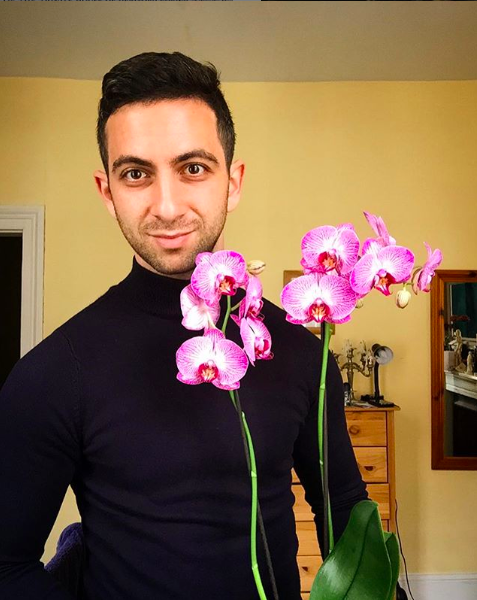
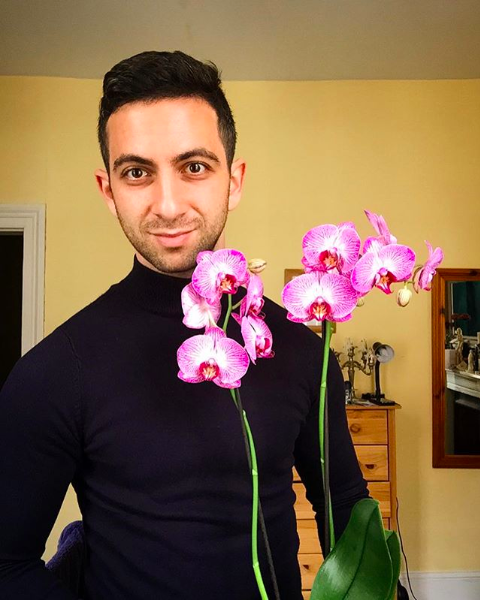
fixed photo names

diff --git a/index.html b/index.html
@@ -204,10 +204,10 @@
       <!-- Portfolio Item -->
       <figure style="position: absolute; left: 0px; top: 0px; transform: translate3d(0px, 0px, 0px) scale3d(1, 1, 1); width: 337px; opacity: 1;" class="portfolio-item one-four   appleIOS isotope-item effect-oscar">
         <div class="portfolio_img"> 
-		<img src="img/James 1.png"  alt="Portfolio 1"> </div> 
+		<img src="img/P1 photo 1.png"  alt="Portfolio 1"> </div> 
 			<figcaption>		
 				<div>
-				  <a href="img/James 1.png" class="fancybox"> 
+				  <a href="img/P1 photo 1.png" class="fancybox"> 
 					<h2>Donosti</h2>
 							<p>This is definetly one of our favourite kissing photos.</p>
           </a>
@@ -219,10 +219,10 @@
       
       <!-- Portfolio Item-->
       <figure style="position: absolute; left: 0px; top: 0px; transform: translate3d(337px, 0px, 0px) scale3d(1, 1, 1); width: 337px; opacity: 1;" class="portfolio-item one-four  design isotope-item effect-oscar">
-        <div class="portfolio_img"> <img src="img/James 2.png" alt="Portfolio 1"> </div>
+        <div class="portfolio_img"> <img src="img/P1 photo 2.png" alt="Portfolio 1"> </div>
         	<figcaption>		
 				<div>
-				  <a href="img/James 2.png" class="fancybox"> 
+				  <a href="img/P1 photo 2.png" class="fancybox"> 
 					<h2>Manhattan</h2>
 							<p>At Brooklyn bridge, with the skyscrapers at the back.</p>
           </a>
@@ -234,10 +234,10 @@
       
       <!-- Portfolio Item -->
       <figure style="position: absolute; left: 0px; top: 0px; transform: translate3d(674px, 0px, 0px) scale3d(1, 1, 1); width: 337px; opacity: 1;" class="portfolio-item one-four  design  isotope-item effect-oscar">
-        <div class="portfolio_img"> <img src="img/James 3.png" alt="Portfolio 1"> </div>
+        <div class="portfolio_img"> <img src="img/P1 photo 3.png" alt="Portfolio 1"> </div>
        <figcaption>		
 				<div>
-				  <a href="img/James 3.png" class="fancybox"> 
+				  <a href="img/P1 photo 3.png" class="fancybox"> 
 					<h2>Barranquilla</h2>
 							<p>This really was one of the best carnavals we ever had.</p>
           </a>
@@ -249,10 +249,10 @@
       
       <!-- Portfolio Item-->
       <figure style="position: absolute; left: 0px; top: 0px; transform: translate3d(1011px, 0px, 0px) scale3d(1, 1, 1); width: 337px; opacity: 1;" class="portfolio-item one-four  android  prototype web isotope-item effect-oscar">
-        <div class="portfolio_img"> <img src="img/James 4.png" alt="Portfolio 1"> </div>
+        <div class="portfolio_img"> <img src="img/P1 photo 4.png" alt="Portfolio 1"> </div>
          <figcaption>		
 				<div>
-				  <a href="img/James 4.png" class="fancybox"> 
+				  <a href="img/P1 photo 4.png" class="fancybox"> 
 					<h2>Beach</h2>
 							<p>We played volleyball at one of our first dates.</p>
           </a>
@@ -264,10 +264,10 @@
       
       <!-- Portfolio Item -->
       <figure style="position: absolute; left: 0px; top: 0px; transform: translate3d(0px, 240px, 0px) scale3d(1, 1, 1); width: 337px; opacity: 1;" class="portfolio-item one-four  design isotope-item effect-oscar">
-        <div class="portfolio_img"> <img src="img/Xabi 1.png" alt="Portfolio 1"> </div>
+        <div class="portfolio_img"> <img src="img/P2 photo 1.png" alt="Portfolio 1"> </div>
        <figcaption>		
 				<div>
-				  <a href="img/Xabi 1.png" class="fancybox"> 
+				  <a href="img/P2 photo 1.png" class="fancybox"> 
 					<h2>Paris</h2>
 							<p>Matching the colours of Mickey Mouse at Disneyland Paris.</p>
           </a>
@@ -279,10 +279,10 @@
       
       <!-- Portfolio Item -->
       <figure style="position: absolute; left: 0px; top: 0px; transform: translate3d(337px, 240px, 0px) scale3d(1, 1, 1); width: 337px; opacity: 1;" class="portfolio-item one-four  web isotope-item effect-oscar">
-        <div class="portfolio_img"> <img src="img/Xabi 2.png" alt="Portfolio 1"> </div>
+        <div class="portfolio_img"> <img src="img/P2 photo 2.png" alt="Portfolio 1"> </div>
        <figcaption>		
 				<div>
-				  <a href="img/Xabi 2.png" class="fancybox"> 
+				  <a href="img/P2 photo 2.png" class="fancybox"> 
 					<h2>Algorta</h2>
 							<p>A selphie in a beautiful port, close to my hometown.</p>
           </a>
@@ -294,10 +294,10 @@
       
       <!-- Portfolio Item  -->
       <figure style="position: absolute; left: 0px; top: 0px; transform: translate3d(674px, 240px, 0px) scale3d(1, 1, 1); width: 337px; opacity: 1;" class="portfolio-item one-four  design web isotope-item effect-oscar">
-        <div class="portfolio_img"> <img src="img/Xabi 3.png" alt="Portfolio 1"> </div>       
+        <div class="portfolio_img"> <img src="img/P2 photo 3.png" alt="Portfolio 1"> </div>       
        <figcaption>		
 				<div>
-				  <a href="img/Xabi 3.png" class="fancybox"> 
+				  <a href="img/P2 photo 3.png" class="fancybox"> 
 					<h2>Faces</h2>
 							<p>In contrast of a serious life, we also like to be silly.</p>
           </a>
@@ -309,10 +309,10 @@
       
       <!-- Portfolio Item -->
       <figure style="position: absolute; left: 0px; top: 0px; transform: translate3d(1011px, 240px, 0px) scale3d(1, 1, 1); width: 337px; opacity: 1;" class="portfolio-item one-four   android isotope-item effect-oscar">
-        <div class="portfolio_img"> <img src="img/Xabi 4.png" alt="Portfolio 1"> </div>       
+        <div class="portfolio_img"> <img src="img/P2 photo 4.png" alt="Portfolio 1"> </div>       
       <figcaption>		
 				<div>
-				  <a href="img/Xabi 4.png" class="fancybox"> 
+				  <a href="img/P2 photo 4.png" class="fancybox"> 
 					<h2>Ceremonies</h2>
 							<p>Particularly, the wedding history we attemped is long.</p>
           </a>
